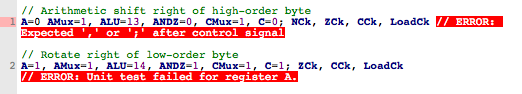
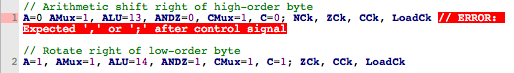
Updated Help system to reflect bug fixes.

diff --git a/help/microcode.html b/help/microcode.html
@@ -196,8 +196,8 @@ The first way to execute a program is to select System->Run from the menu or cli
 <img src="qrc:/help/images/runicon.png" alt="runicon" hspace=10 vspace=10>
 <p>
 Pep/8 CPU will attempt to microassemble your microcode program.
-If there are errors, they will appear in red in the Microcode pane, as in the following figure.
-<i>[OOPS! As seen below, it appears that execution was attempted because of the unit test failure message!]</i>
+If there are errors, they will appear in red in the Microcode pane.
+The following figure shows the error message that appears when a comma is omitted after the first control signal.
 <p>
 <img src="qrc:/help/images/errormessage.png" alt="errormessage" hspace=10 vspace=10>
 <p>
